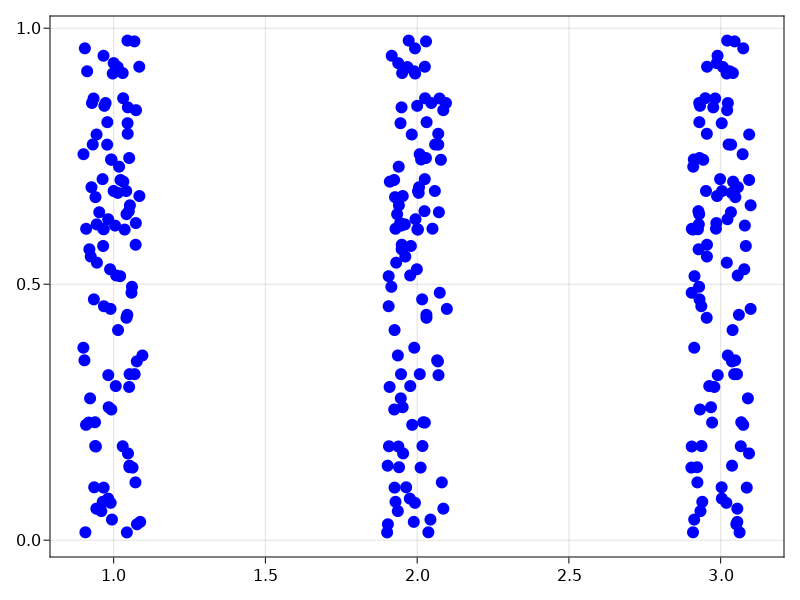
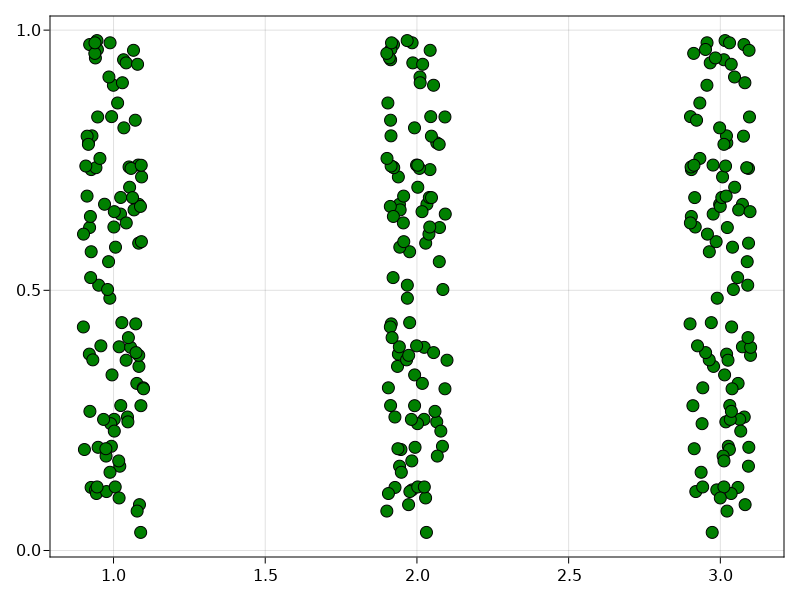
revise functions and figures better3

diff --git a/README.md b/README.md
@@ -11,6 +11,7 @@ jitterplot(x, y, width_jit; kwargs)
 
 # width_jit (fraction between 0 and 1) determines the spread of scatter points
 # kwargs are the keyword arguments same as Makie.jl scatter function
+# cannot be used to plot paired (dodged) jitter plots
 
 
 jitterplot!(x, y, width_jit; kwargs)
@@ -20,7 +21,8 @@ jitterplot!(x, y, width_jit; kwargs)
 # 'dodge_color' keyword provides a list of user defined colors for each each of the jitters
 in a pair
 # when 'dodge_color' is provided the 'color' keyword argument must not be included to avoid conflict
-# the argument 'gap_jit' (fraction between 0 and 1; default value is 1.0 if not provided) controls the gap between paired jitters
+# the argument 'gap_jit' (fraction between 0 and 1; default value is 1.0 if not provided) controls the gap
+between paired jitters
 
 ```
 # Examples
@@ -40,7 +42,10 @@ jitterplot(x, y, 0.2)
 ```julia
 f = Figure();
 ax = Axis(f[1, 1]);
-jitterplot!(x, y, 0.2, color = :blue, markersize = 12, strokecolor = :black);
+jitterplot!(x, y, 0.2,
+                      color = :green,
+                      markersize = 12,
+                      strokewidth = 1.0);
 f
 ```
 <p align="center">
@@ -52,7 +57,12 @@ dodge_group = repeat(1:2, outer =150);
 dodge_color = [:blue, :green];
 f = Figure();
 ax = Axis(f[1, 1]);
-jitterplot!(x, y, 0.1, gap_jit = 0.3, dodge_group = dodge_group, dodge_color = dodge_color, markersize = 12);
+jitterplot!(x, y, 0.1,
+                      gap_jit = 0.3,
+                      dodge_group = dodge_group,
+                      dodge_color = dodge_color,
+                      markersize = 12,
+                      strokewidth = 1.0);
 f
 ```
 <p align="center">
